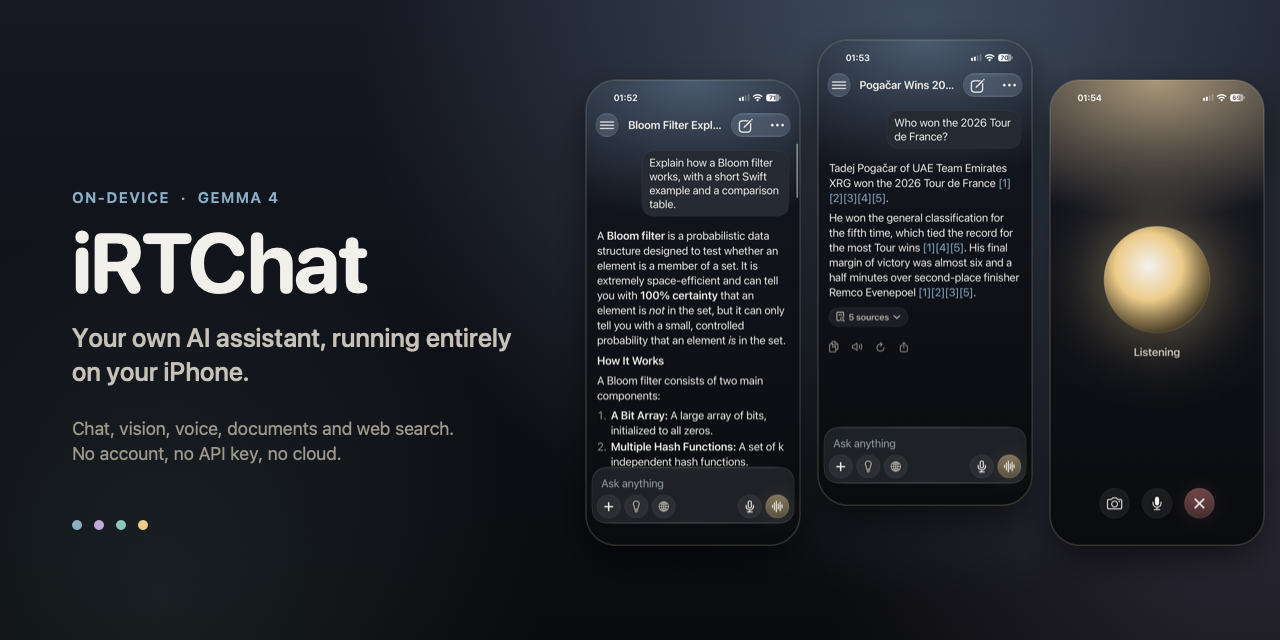
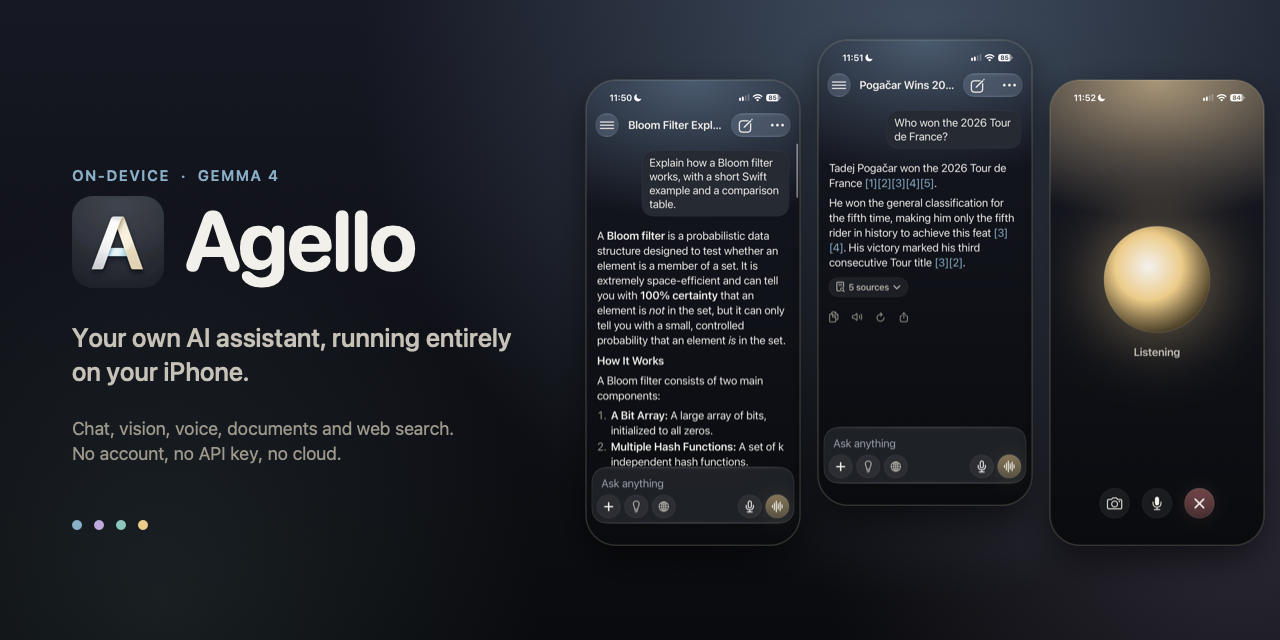
README images from Agello, and an Agello social preview
- All nine screenshots retaken as Agello by the screenshot tour (the drawer
  shows the new wordmark)
- social-preview.png: the app icon beside the Agello wordmark
- Release skill: the first device build registered the new development IDs

Verified on the iPhone as com.patricedery.agello: unit 208/208 (1 skipped),
inference 20/20, files 3/3, web 3/3, ui 22/22, the screenshot tour.

Claude-Session: https://claude.ai/code/session_01CnVStwgjSQR7ePvXQUcBLf

diff --git a/.claude/skills/agello-release/SKILL.md b/.claude/skills/agello-release/SKILL.md
@@ -28,9 +28,10 @@ uploading, submitting) needs the user's go-ahead first.
 
 1. **Bundle IDs and capabilities** (`asc:asc-signing-setup`). The app was
    renamed from iRTChat on 2026-10-14; its old `com.patricedery.irtchat` IDs
-   are unused and can be removed from the portal. Confirm the IDs above and
-   the app ID's capabilities (Xcode's automatic signing registers
-   development IDs on the first device build).
+   are unused and can be removed from the portal. The first device build on
+   2026-10-14 registered the app, share and widgets IDs, the App Group and
+   the app's capabilities through automatic signing (development only);
+   confirm them in the portal before the first distribution build.
 2. **App record** (`asc:asc-app-create-ui`, driven through Claude in Chrome in
    the user's own visible Chrome; the user signs in to Apple themselves).
    There was no record for the app (under either name) as of 2026-10-14.
